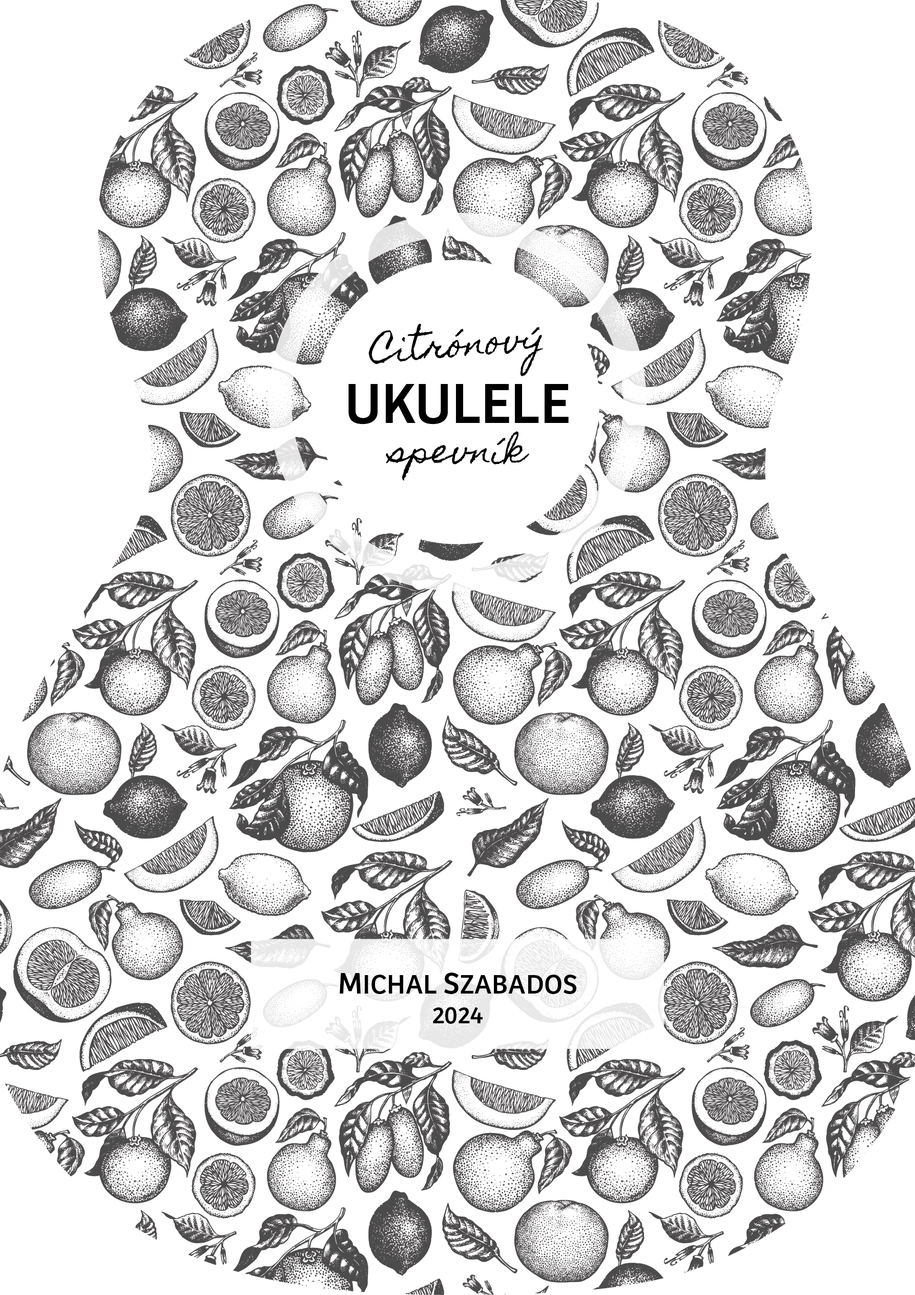
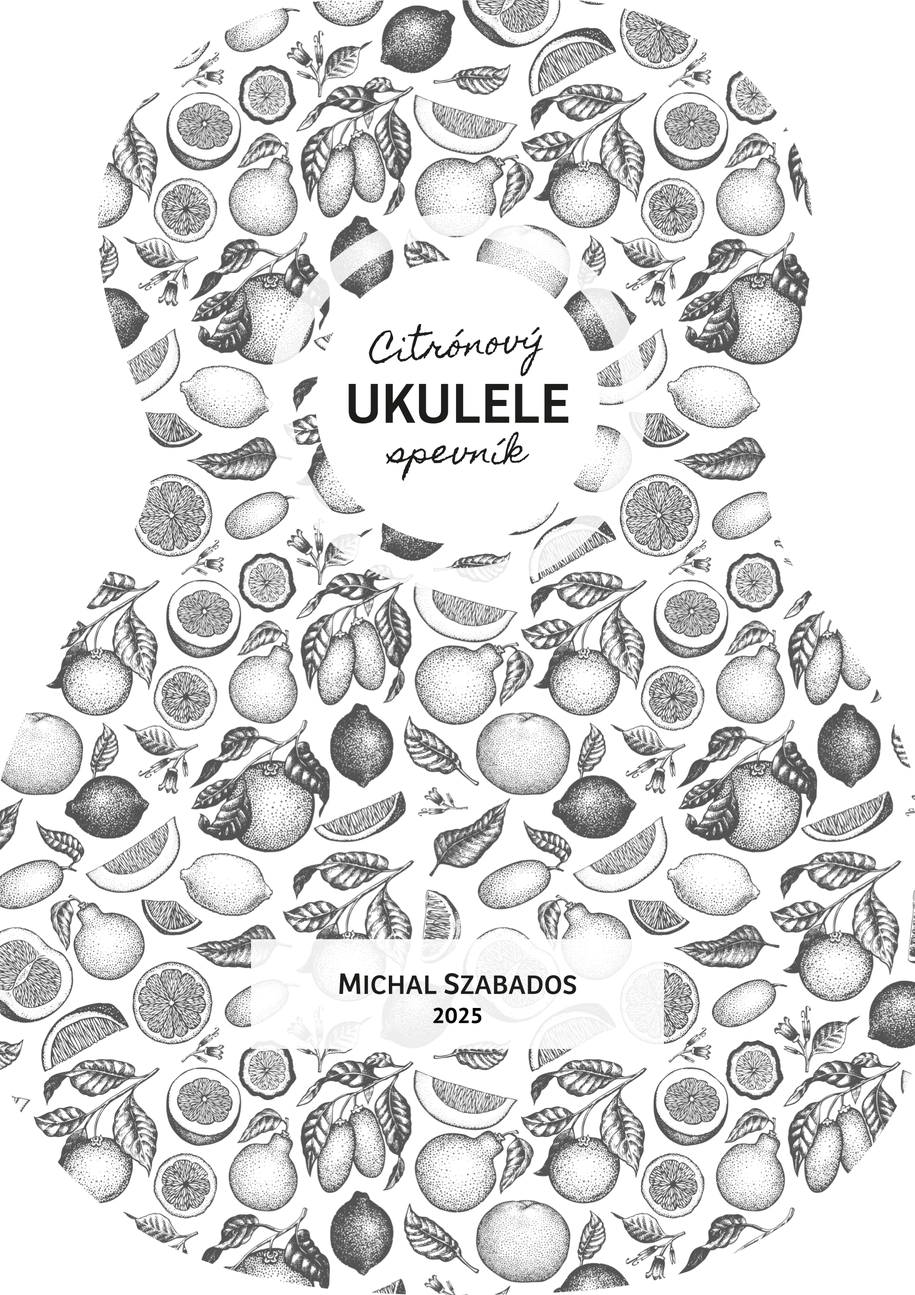
Update cover

diff --git a/main.tex b/main.tex
@@ -28,6 +28,7 @@
 \input{insbox}								% float for strumbox
 \usepackage[stamp]{draftwatermark}			% disable: nostamp
 \usepackage{framed}			% debug frames
+\usepackage{qrcode}
 
 \input{ukulelechords.tex}
 
@@ -79,7 +80,7 @@
 
 % Strumbox.
 \NewEnviron{strumbox}{%
-    \InsertBoxR{0}{{\vrule height 2.5ex depth 0pt width 0pt}\BODY}%
+	\InsertBoxR{0}{{\vrule height 2.5ex depth 0pt width 0pt}\BODY}%
 }%
 
 % Chorusbox environment. Makes a box around text, used mostly for choruses.
@@ -175,7 +176,7 @@
 %%%%%%%%%%%%%%%%%%%%%%%%%%%%%%%%%%%%%%%%%%
 % VERSION
 \renewcommand{\dateseparator}{-}
-\newcommand{\songbookversion}{v0.6.\today}
+\newcommand{\songbookversion}{v0.7.\today}
 \SetWatermarkText{Beta \songbookversion}
 \SetWatermarkColor[gray]{0.5}
 \SetWatermarkFontSize{0.4cm}
@@ -195,20 +196,25 @@
 	\begin{center}
 		\vspace*{1cm}
 
-		\vspace{6cm}
+		\vspace{4cm}
 
 		\includegraphics[width=0.5\textwidth]{title.png}
 
-		\vspace{6cm}
+		\vspace{3cm}
 
-		\it
-		\LARGE
-		www.ukulelespevnik.sk
+		\LARGE uke.sk
 
-		\vspace{1cm}
+		\vspace{0.5cm}
 
-		\Large
-		Beta \songbookversion
+		\LARGE ukulelespevnik.sk
+
+		\vspace{2cm}
+
+		\qrcode[hyperlink,height=3.5cm]{uke.sk}
+
+		\vspace{2cm}
+
+		\Large Beta \songbookversion
 
 	\end{center}
 \end{titlepage}

diff --git a/intro.tex b/intro.tex
@@ -43,7 +43,7 @@ Mišo
 
 \vspace{-0.3cm}
 \hspace{1cm}
-2020--2024
+2020--2025
 }
 
 \newpage

diff --git a/prompt_above.md b/prompt_above.md
@@ -29,15 +29,19 @@ Happy \ch{G}birthday \ch{D}to \ch{G}you \par
 \end{song}
 ```
 
-Please help me write the song file. Below is a text with chords for a song. The chord notation is on every other line above the text. The whitespace matters, the chord position is above the place where it is played. Please wrap each occurrence of a chord with \ch{...} and move it inline. For example,
+Please help me write the song file. Below is a text with chords for a song. The chord notation is on every other line above the text. Wrap each chord in `\ch{...}` and insert it in the text just before the word it is written above - the exact position
+matters. For example,
 
 ```
     C                    F
 She asked me, "Son, when I grow old,
+     Am           G
+Will you buy me a house of gold?
 ```
 becomes
 ```
 She \ch{C}asked me, "Son, when \ch{F}I grow old, \par
+Will \ch{Am}you buy me a \ch{G}house of gold? \par
 ```
 
 
